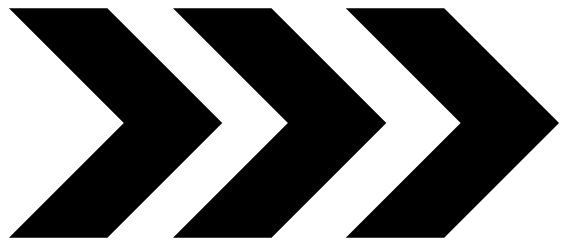
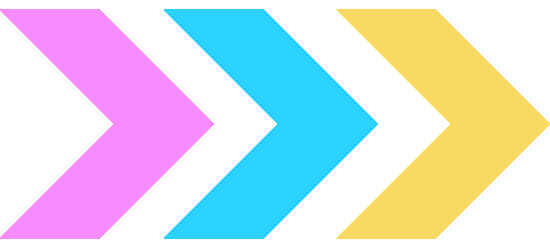
changed branding

diff --git a/style.css b/style.css
@@ -17,13 +17,13 @@ input {
 button {
   /* margin-top: 10px; */
   margin-top: 0.5rem;
-  background-color: #ccdbee;
+  background-color: #fbda61;
   font-size: 0.9rem;
   padding: 0.9rem 1.8rem;
   border-radius: 10px;
   border-width: 0.3rem;
   border: none;
-  box-shadow: 5px 5px 3px #233c67;
+  box-shadow: 5px 5px 3px #2bd2ff;
   font-weight: 700;
 }
 
@@ -39,7 +39,8 @@ li {
 
 li a {
   color: #233c67;
-  /* text-decoration: none; */
+  font-size: 1.1rem;
+  text-decoration: none;
 }
 
 img {

diff --git a/index.html b/index.html
@@ -15,7 +15,7 @@
   <body>
     <img src="icon.png" alt="logo" />
     <input type="text" id="input-el" />
-    <button id="input-btn">SAVE INPUT</button>
+    <button id="input-btn">SAVE CONTACT</button>
     <ul id="ul-el">
       <!-- <li></li> -->
     </ul>
